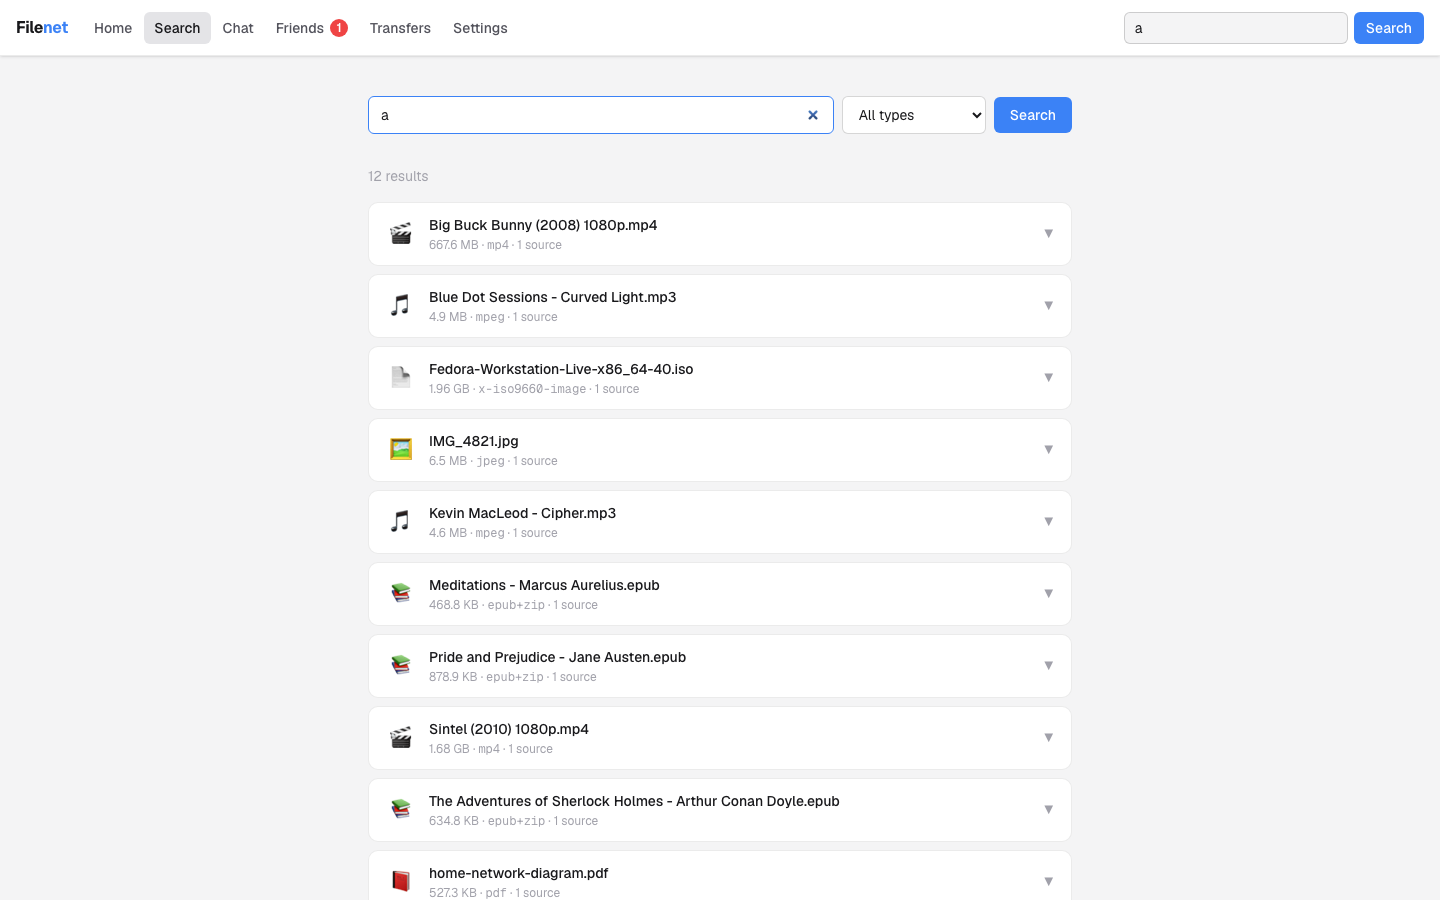
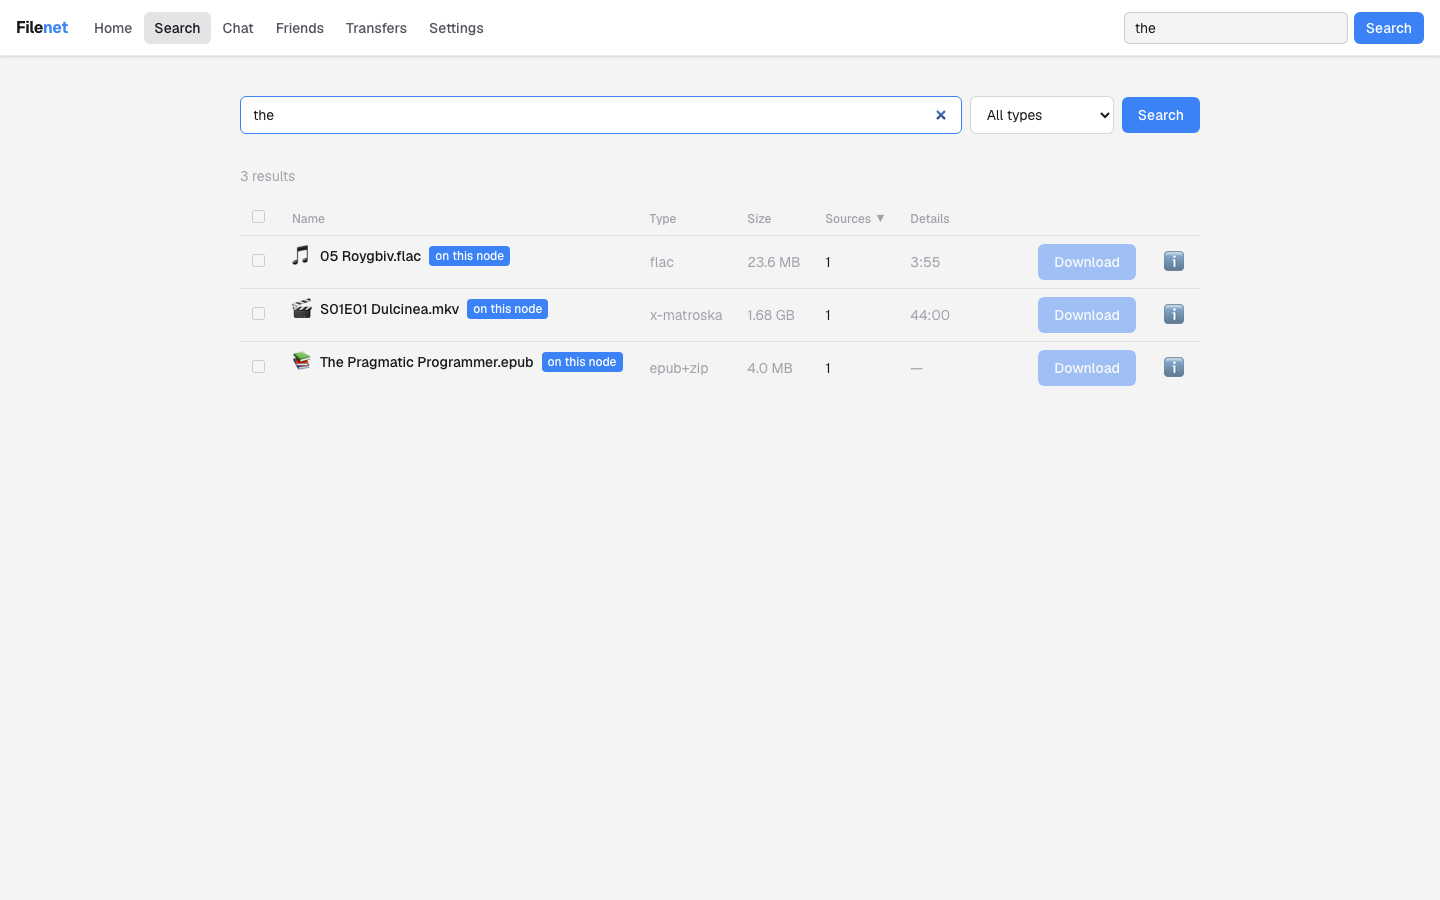
docs: changelog entry and refreshed search screenshots for the new results table

diff --git a/CHANGELOG.md b/CHANGELOG.md
@@ -7,6 +7,10 @@ and this project adheres to [Semantic Versioning](https://semver.org/spec/v2.0.0
 
 ## [Unreleased]
 
+### Changed
+
+- **Search results are now a sortable table** — replaced the click-to-expand card list with a table (Name, Type, Size, Sources, and a type-aware Details column showing duration/dimensions/page-count). Column headers sort ascending/descending; checkboxes support multi-select with a "Download All" bulk action; full metadata moved to a slide-in info drawer (`ResultInfoDrawer`) opened via a per-row info icon.
+
 ### Fixed
 
 - **Settings tabs scrolled off-screen with no visible hint that they did** — the tab bar overflowed the page's `max-w-2xl` container, and macOS hides scrollbars by default, so the extra tabs (Maintenance, Updates, Notifications) were easy to miss entirely. Widened the Settings page to `max-w-4xl`, which fits all nine tabs on one line.